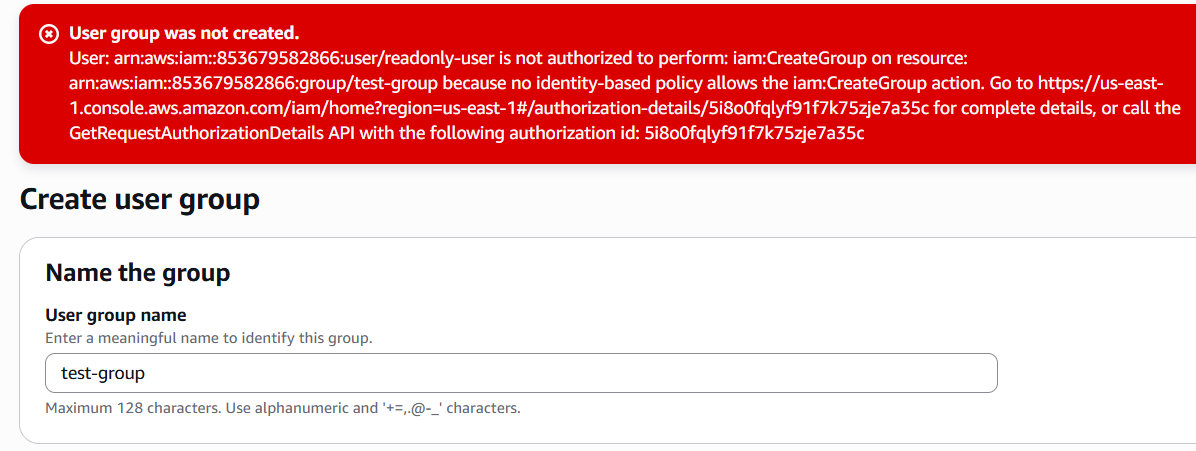
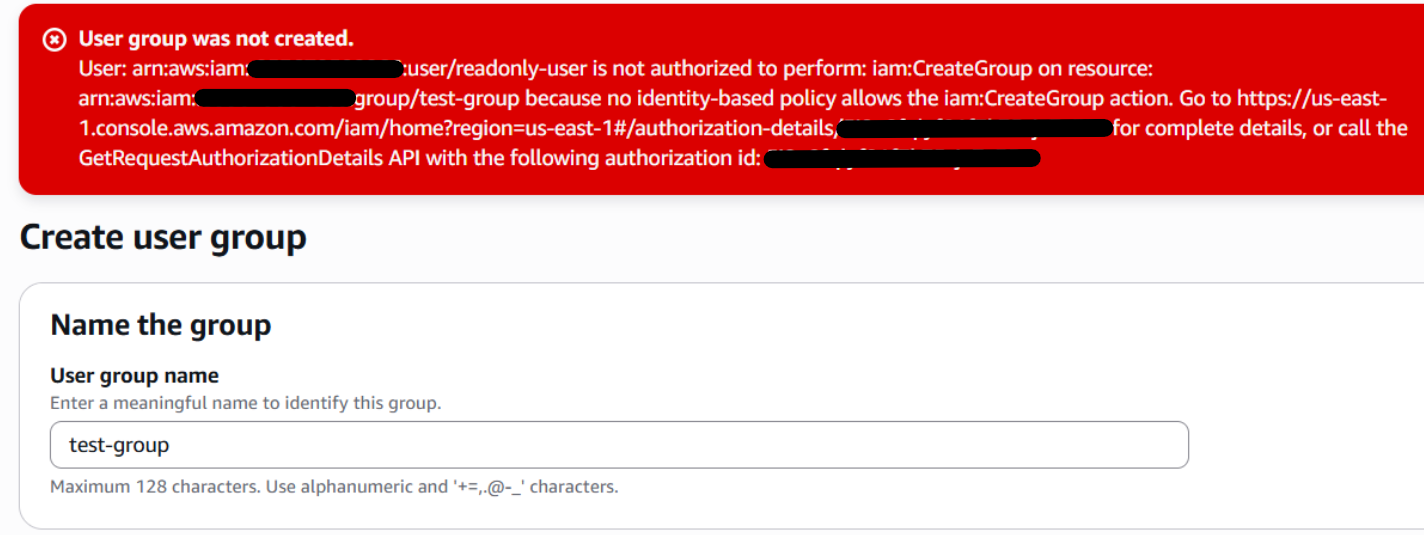
Removing some lines from phase one

diff --git a/src/content/labs/01-05-how-aws-charges-you.md b/src/content/labs/01-05-how-aws-charges-you.md
@@ -53,10 +53,9 @@ Most AWS pricing is based on usage: how long something runs, how much you store,
 
 That's what makes it flexible, as covered in Lab 0.1. It also means a resource you forget about can keep costing money until you delete it.
 
-- **Running time:** servers are charged while they're running. Load balancers and NAT gateways are charged for every hour they exist, busy or not.
+- **Running time:** servers are charged while they're running. Some services like load balancers and NAT gateways are charged for every hour they exist, busy or not.
 - **Storage:** disks, snapshots and files are charged based on how much storage you use. Disks are charged for their allocated size, even if they're mostly empty.
 - **Data out:** data sent from AWS to the internet can be charged per GB. Incoming data is generally free.
-- **Public IPv4 addresses:** about `$0.005` an hour each, roughly `$3.65` for a 730-hour month, even if unused.
 
 Plenty of things are free, including IAM users, groups and policies, VPCs, subnets, route tables and security groups.
 

diff --git a/src/content/labs/01-04-the-aws-cli.md b/src/content/labs/01-04-the-aws-cli.md
@@ -10,7 +10,7 @@ summary: Use the AWS CLI in CloudShell to check who you're signed in as and look
 draft: false
 questions:
   - kind: recall
-    q: "What does <code>aws sts get-caller-identity</code> tell you?"
+    q: "What does<code>aws sts get-caller-identity</code> tell you?"
     options:
       - "How much you've spent this month"
       - "Which account and which user your commands are running as"
